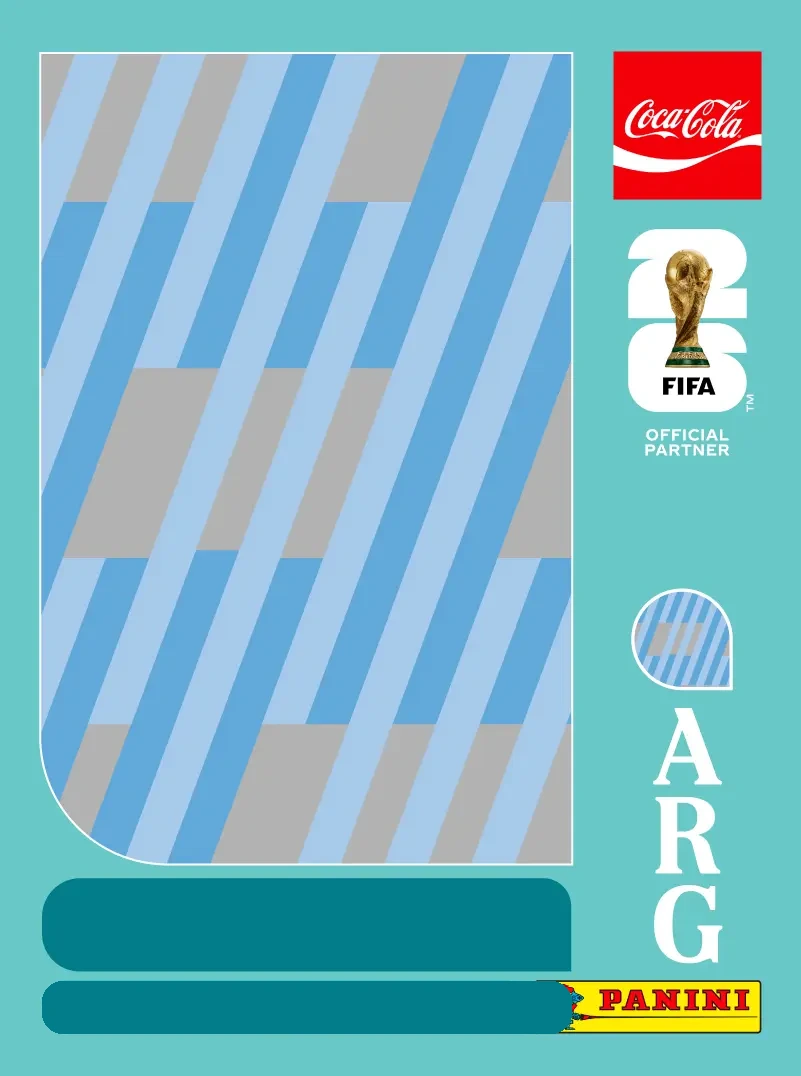
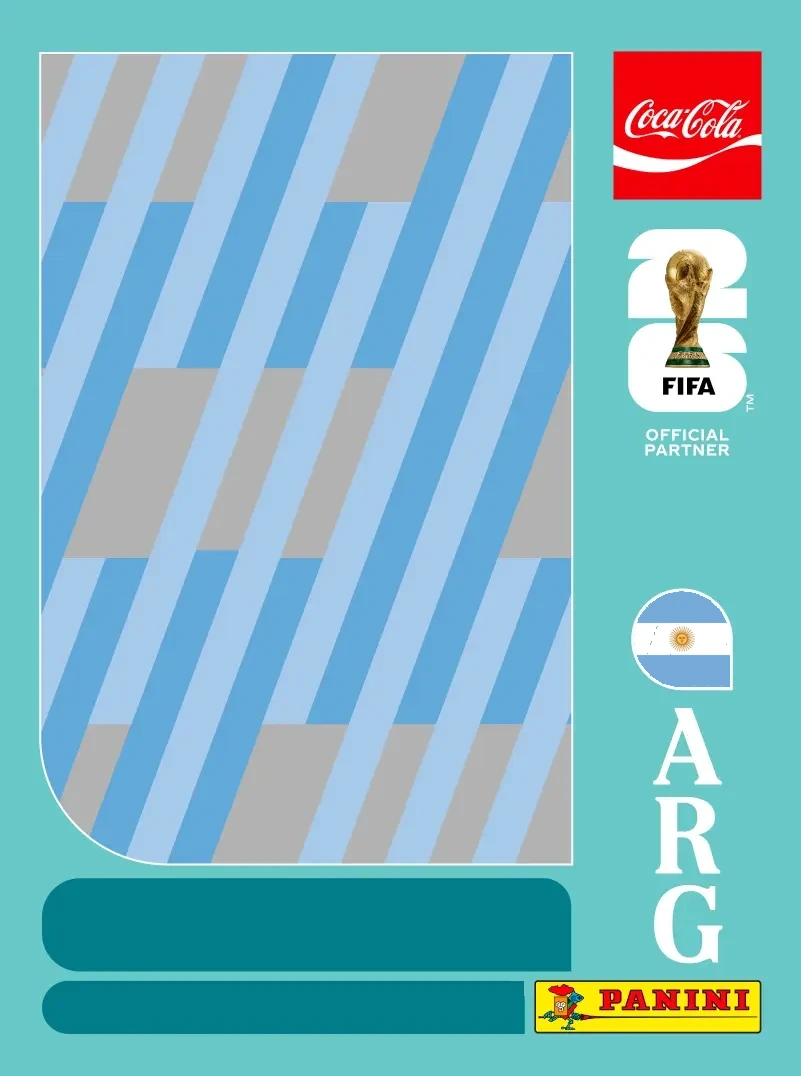
Mejora el cartel: datos del jugador, bandera, layout y forma del recuadro
- Recuadro superior: nombre (simple) + apellido (negrita) y debajo
  nacimiento | altura | peso. Tipografia sans-serif.
- Recuadro inferior: club en negrita. Corrige su largo y la punta
  derecha recta para no pisar el logo de Panini.
- Reemplaza el escudo lateral por la bandera argentina (con el sol),
  recortada a la forma del escudo en bg.webp.
- Layout: la tarjeta se muestra a ~380px al lado de los controles
  (calculo de escala sin feedback) en vez de gigante y apilada.

Changed region(s): [[0.7803, 0.552, 0.9363, 0.6441], [0.6554, 0.8894, 0.7179, 0.9814]]

diff --git a/app/page.tsx b/app/page.tsx
@@ -7,14 +7,20 @@ import StickerCard, { StickerData } from "@/components/StickerCard";
 // Tamaño nativo del template bg_1.webp
 const CARD_W = 801;
 const CARD_H = 1076;
+// Ancho de visualización de la tarjeta (debe coincidir con .preview-col en CSS)
+const PREVIEW_W = 380;
 
 const DEFAULTS: StickerData = {
   photoUrl: null,
   zoom: 1,
   posX: 50,
   posY: 50,
-  name: "NOMBRE APELLIDO",
-  code: "ARG",
+  firstName: "LIONEL",
+  lastName: "MESSI",
+  birth: "24-6-1987",
+  height: "1,70 m",
+  weight: "72 kg",
+  club: "INTER MIAMI CF (USA)",
 };
 
 function readFile(file: File): Promise<string> {
@@ -32,17 +38,17 @@ export default function Home() {
   const [busy, setBusy] = useState(false);
 
   const cardRef = useRef<HTMLDivElement>(null);
-  const previewColRef = useRef<HTMLDivElement>(null);
 
   const set = <K extends keyof StickerData>(key: K, value: StickerData[K]) =>
     setData((d) => ({ ...d, [key]: value }));
 
-  // Responsive: escala el preview para que entre en su columna.
+  // La tarjeta se muestra a un ancho fijo cómodo (≤380px) para que quepa al
+  // lado de los controles; en pantallas chicas se achica al ancho disponible.
   useEffect(() => {
     const update = () => {
-      const col = previewColRef.current;
-      if (!col) return;
-      setScale(Math.min(1, col.clientWidth / CARD_W));
+      const content = Math.min(window.innerWidth, 1080) - 36;
+      const target = Math.min(PREVIEW_W, content);
+      setScale(target / CARD_W);
     };
     update();
     window.addEventListener("resize", update);
@@ -67,7 +73,7 @@ export default function Home() {
         height: CARD_H,
       });
       const link = document.createElement("a");
-      const safe = (data.name || "figurita")
+      const safe = `${data.firstName} ${data.lastName}`
         .toLowerCase()
         .replace(/[^a-z0-9]+/g, "-")
         .replace(/^-|-$/g, "");
@@ -80,7 +86,7 @@ export default function Home() {
     } finally {
       setBusy(false);
     }
-  }, [data.name]);
+  }, [data.firstName, data.lastName]);
 
   return (
     <main className="page">
@@ -91,11 +97,7 @@ export default function Home() {
 
       <div className="layout">
         {/* PREVIEW */}
-        <div
-          className="preview-col"
-          ref={previewColRef}
-          style={{ maxWidth: CARD_W }}
-        >
+        <div className="preview-col">
           <div
             className="preview"
             style={{
@@ -162,21 +164,58 @@ export default function Home() {
 
           <div className="divider" />
 
-          <div className="field">
-            <label>Nombre (recuadro superior)</label>
-            <input
-              type="text"
-              value={data.name}
-              onChange={(e) => set("name", e.target.value)}
-            />
+          <div className="row">
+            <div className="field">
+              <label>Nombre</label>
+              <input
+                type="text"
+                value={data.firstName}
+                onChange={(e) => set("firstName", e.target.value)}
+              />
+            </div>
+            <div className="field">
+              <label>Apellido</label>
+              <input
+                type="text"
+                value={data.lastName}
+                onChange={(e) => set("lastName", e.target.value)}
+              />
+            </div>
+          </div>
+
+          <div className="row">
+            <div className="field">
+              <label>Nacimiento</label>
+              <input
+                type="text"
+                value={data.birth}
+                onChange={(e) => set("birth", e.target.value)}
+              />
+            </div>
+            <div className="field">
+              <label>Altura</label>
+              <input
+                type="text"
+                value={data.height}
+                onChange={(e) => set("height", e.target.value)}
+              />
+            </div>
+            <div className="field">
+              <label>Peso</label>
+              <input
+                type="text"
+                value={data.weight}
+                onChange={(e) => set("weight", e.target.value)}
+              />
+            </div>
           </div>
 
           <div className="field">
-            <label>Sigla (recuadro inferior)</label>
+            <label>Club (recuadro inferior)</label>
             <input
               type="text"
-              value={data.code}
-              onChange={(e) => set("code", e.target.value.toUpperCase())}
+              value={data.club}
+              onChange={(e) => set("club", e.target.value)}
             />
           </div>
 

diff --git a/components/StickerCard.tsx b/components/StickerCard.tsx
@@ -6,9 +6,10 @@ import { forwardRef } from "react";
  * Figurita = el template real `bg_1.webp` (801×1076) usado tal cual.
  * Encima solo se superponen las partes editables:
  *   - la foto, recortada a la ventana rayada (esquina inferior izquierda en gota)
- *   - el recuadro superior (nombre)
- *   - el recuadro inferior (sigla, ej. "ARG") — el texto baked ya se limpió en bg.webp
- * Ningún logo (Coca-Cola, FIFA 26, escudo, ARG lateral, Panini) se recrea ni se toca.
+ *   - el recuadro superior: nombre (simple) + apellido (negrita) y debajo
+ *     nacimiento | altura | peso
+ *   - el recuadro inferior: club (negrita) — el texto baked ya se limpió en bg.webp
+ * Ningún logo (Coca-Cola, FIFA 26, bandera, ARG lateral, Panini) se recrea.
  */
 
 export type StickerData = {
@@ -16,8 +17,12 @@ export type StickerData = {
   zoom: number;
   posX: number;
   posY: number;
-  name: string;
-  code: string;
+  firstName: string;
+  lastName: string;
+  birth: string;
+  height: string;
+  weight: string;
+  club: string;
 };
 
 type Props = { data: StickerData };
@@ -26,6 +31,12 @@ const StickerCard = forwardRef<HTMLDivElement, Props>(function StickerCard(
   { data },
   ref
 ) {
+  const datos = [data.birth, data.height, data.weight]
+    .map((s) => s.trim())
+    .filter(Boolean)
+    .join("  |  ");
+  const sep = data.firstName && data.lastName ? " " : "";
+
   return (
     <div className="card" ref={ref}>
       {/* template base — la imagen tal cual, con todos sus logos */}
@@ -52,14 +63,19 @@ const StickerCard = forwardRef<HTMLDivElement, Props>(function StickerCard(
         )}
       </div>
 
-      {/* recuadro superior: nombre (texto sobre el recuadro teal del template) */}
+      {/* recuadro superior: nombre + apellido y datos */}
       <div className="pill pill-name">
-        <span>{data.name}</span>
+        <div className="line1">
+          <span className="fn">{data.firstName}</span>
+          {sep}
+          <span className="ln">{data.lastName}</span>
+        </div>
+        {datos && <div className="line2">{datos}</div>}
       </div>
 
-      {/* recuadro inferior: sigla (texto sobre el recuadro limpiado) */}
+      {/* recuadro inferior: club */}
       <div className="pill pill-code">
-        <span>{data.code}</span>
+        <span className="club">{data.club}</span>
       </div>
     </div>
   );

diff --git a/app/globals.css b/app/globals.css
@@ -49,6 +49,9 @@ body {
 
 .preview-col {
   flex: 0 0 auto;
+  width: 380px;
+  max-width: 100%;
+  min-width: 0;
 }
 
 .preview {
@@ -265,42 +268,62 @@ input[type="range"] {
   position: absolute;
   left: 42px;
   display: flex;
+  flex-direction: column;
   align-items: center;
   justify-content: center;
-}
-.pill span {
   color: #ffffff;
-  font-family: Georgia, "Times New Roman", serif;
-  font-weight: 700;
+  font-family: Arial, "Helvetica Neue", Helvetica, "Segoe UI", Roboto, sans-serif;
+}
+
+/* superior: nombre (simple) + apellido (negrita) y datos */
+.pill-name {
+  top: 878px;
+  width: 528px;
+  height: 93px;
+  padding: 0 22px;
+}
+.pill-name .line1 {
+  max-width: 100%;
+  font-size: 36px;
+  line-height: 1.04;
+  letter-spacing: 0.5px;
   text-transform: uppercase;
   white-space: nowrap;
   overflow: hidden;
   text-overflow: ellipsis;
 }
-
-/* superior: nombre */
-.pill-name {
-  top: 878px;
-  width: 528px;
-  height: 93px;
-  padding: 0 34px;
+.pill-name .line1 .fn {
+  font-weight: 400;
 }
-.pill-name span {
-  font-size: 42px;
-  letter-spacing: 0.5px;
+.pill-name .line1 .ln {
+  font-weight: 800;
+}
+.pill-name .line2 {
+  max-width: 100%;
+  margin-top: 4px;
+  font-size: 21px;
+  font-weight: 600;
+  letter-spacing: 0.3px;
+  white-space: nowrap;
+  overflow: hidden;
 }
 
-/* inferior: sigla (recuadro limpiado en bg.webp) */
+/* inferior: club (negrita) — recuadro real (corto, extremo derecho recto) */
 .pill-code {
   top: 981px;
-  width: 529px;
+  width: 482px;
   height: 52px;
-  padding: 0 24px;
+  padding: 0 20px;
 }
-.pill-code span {
-  font-size: 46px;
-  line-height: 1;
-  letter-spacing: 1px;
+.pill-code .club {
+  max-width: 100%;
+  font-size: 27px;
+  font-weight: 800;
+  letter-spacing: 0.5px;
+  text-transform: uppercase;
+  white-space: nowrap;
+  overflow: hidden;
+  text-overflow: ellipsis;
 }
 
 @media (max-width: 720px) {
